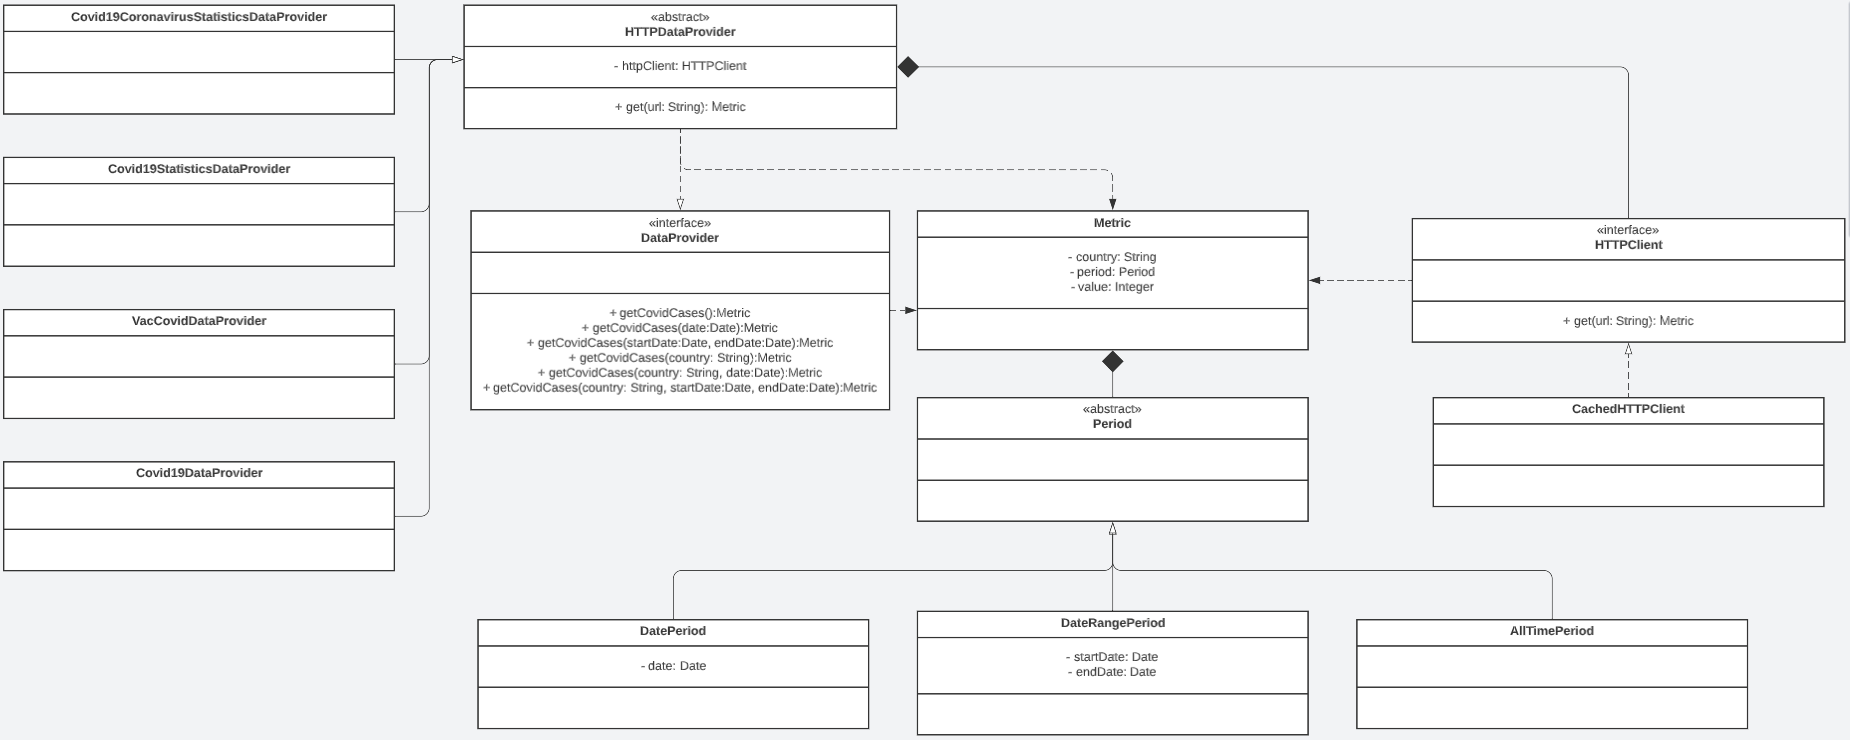
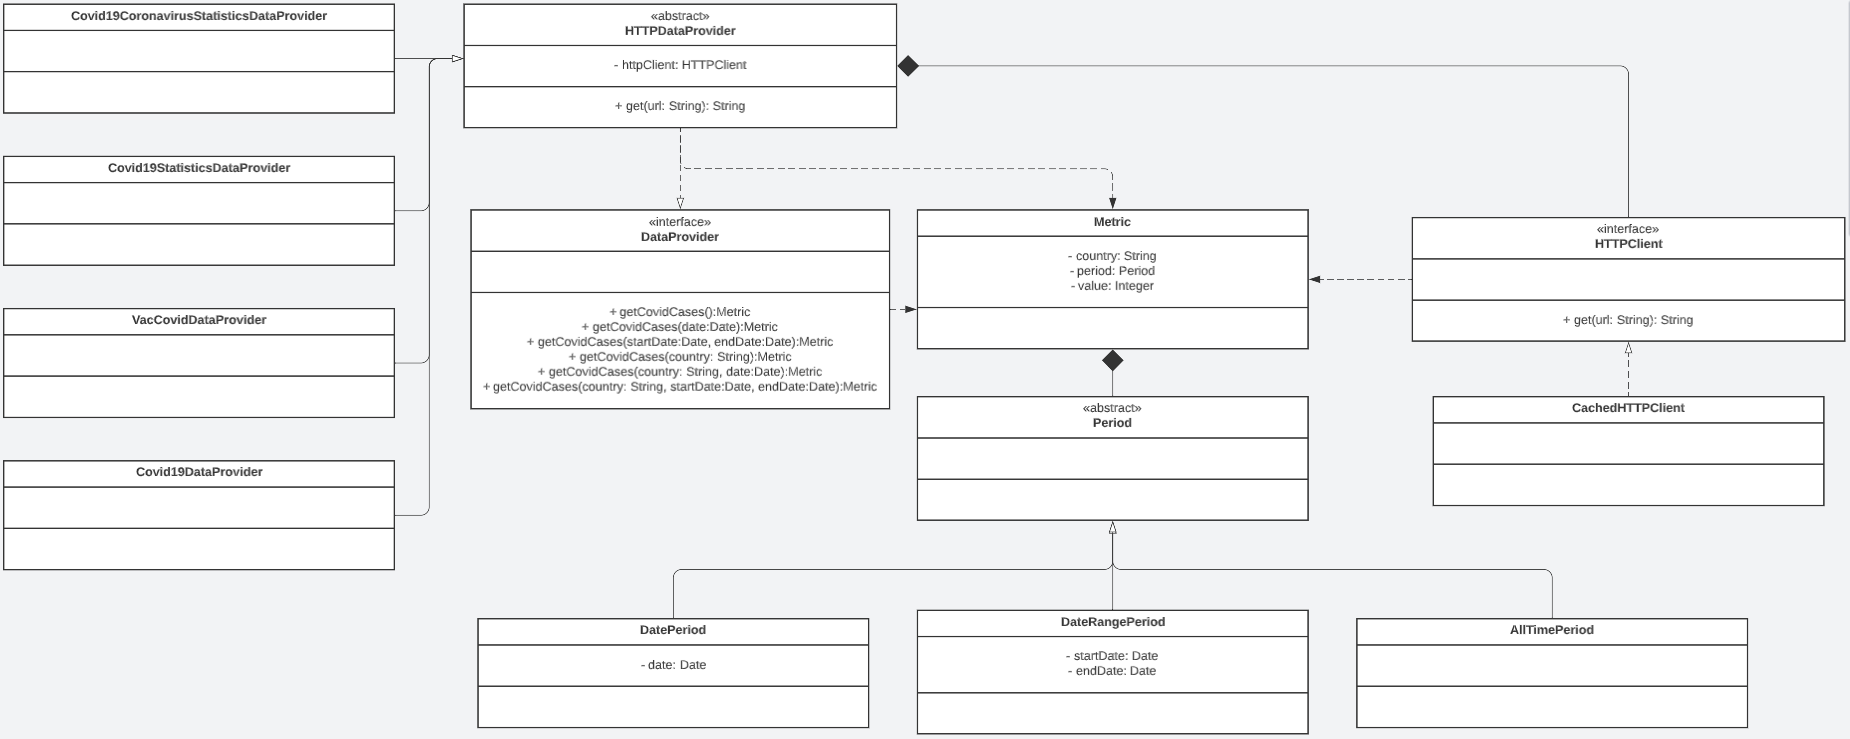
Fix Architecture Problems

diff --git a/report/report.md b/report/report.md
@@ -12,7 +12,7 @@ This application will be able to gather information from different sources, tran
 
 The frontend will be developed using the Angular framework. Its development will follow a behavior driven approach, making use of the Cucumber framework and Selenium.
 
-The API will be developed in Spring Boot following a test-driven approach. The tests will be written using the built-in utilities, Junit5 and Mockito. The cache will be stored in a Redis database, logs will be provided by Logback, and requests to external sources will be handled with the help of Retrofit. The development process will be accompanied by SonarQube to ensure the quality of the code.
+The API will be developed in Spring Boot following a test-driven approach. The tests will be written using the built-in utilities, Junit5 and Mockito. The cache will be stored in a Redis database, logs will be provided by Logback, and requests to external sources will be handled with the help of OkHttp. The development process will be accompanied by SonarQube to ensure the quality of the code.
   
 <br>
 
